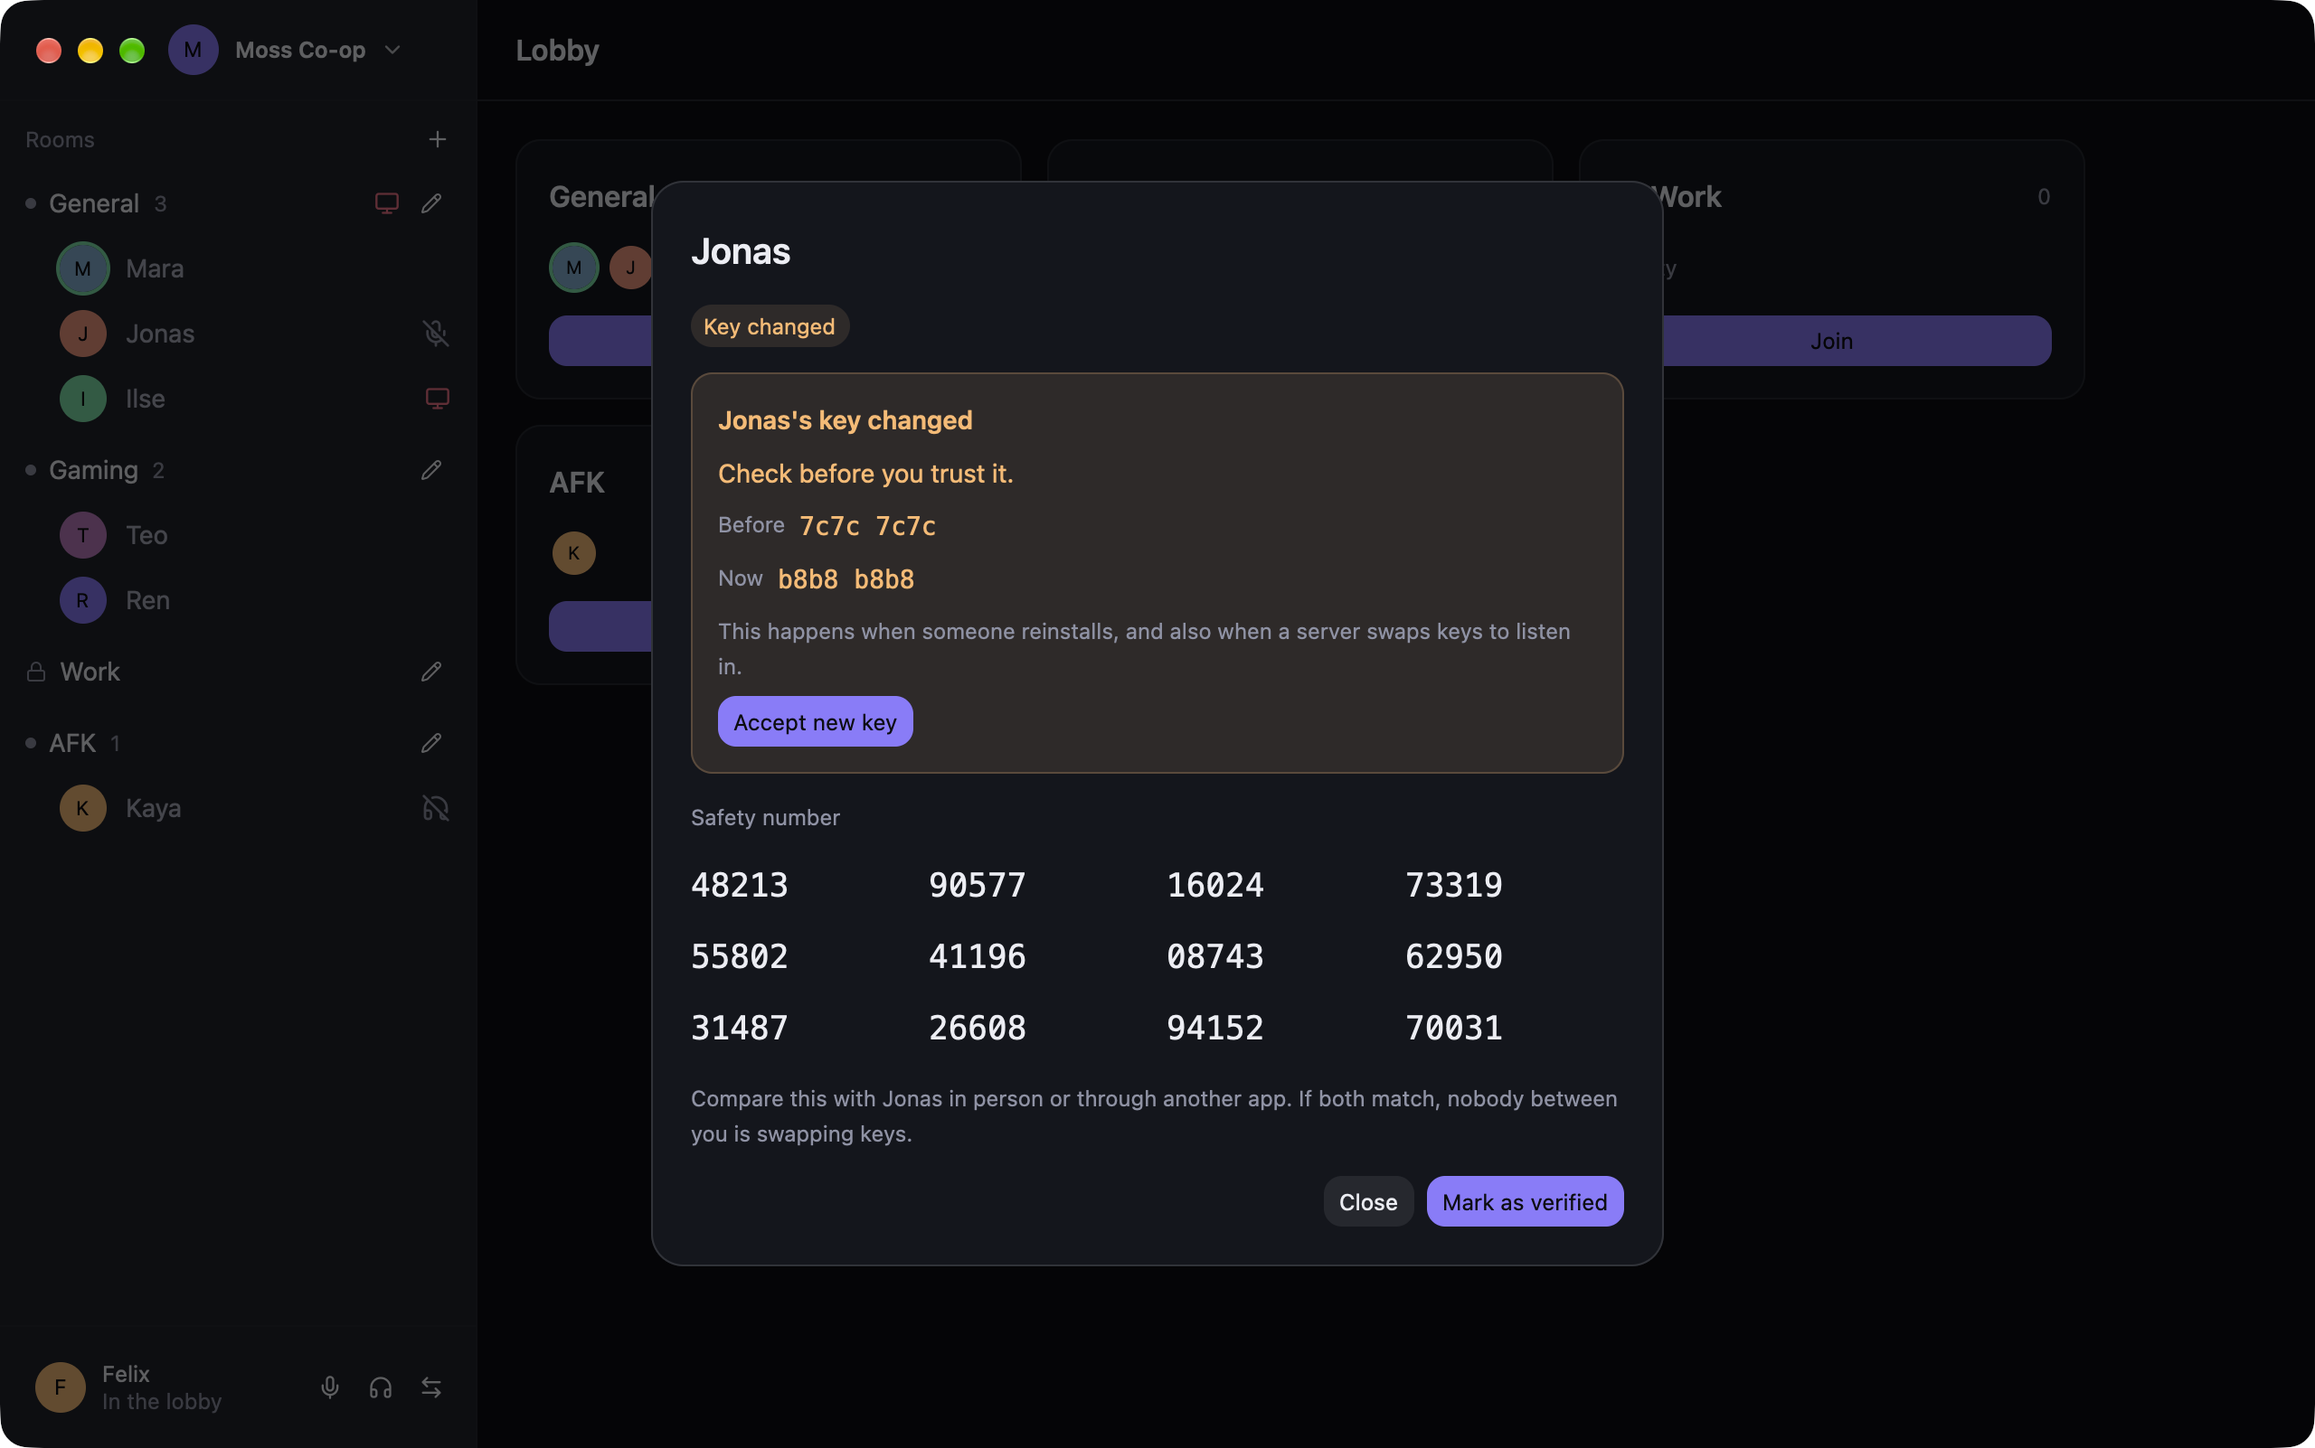
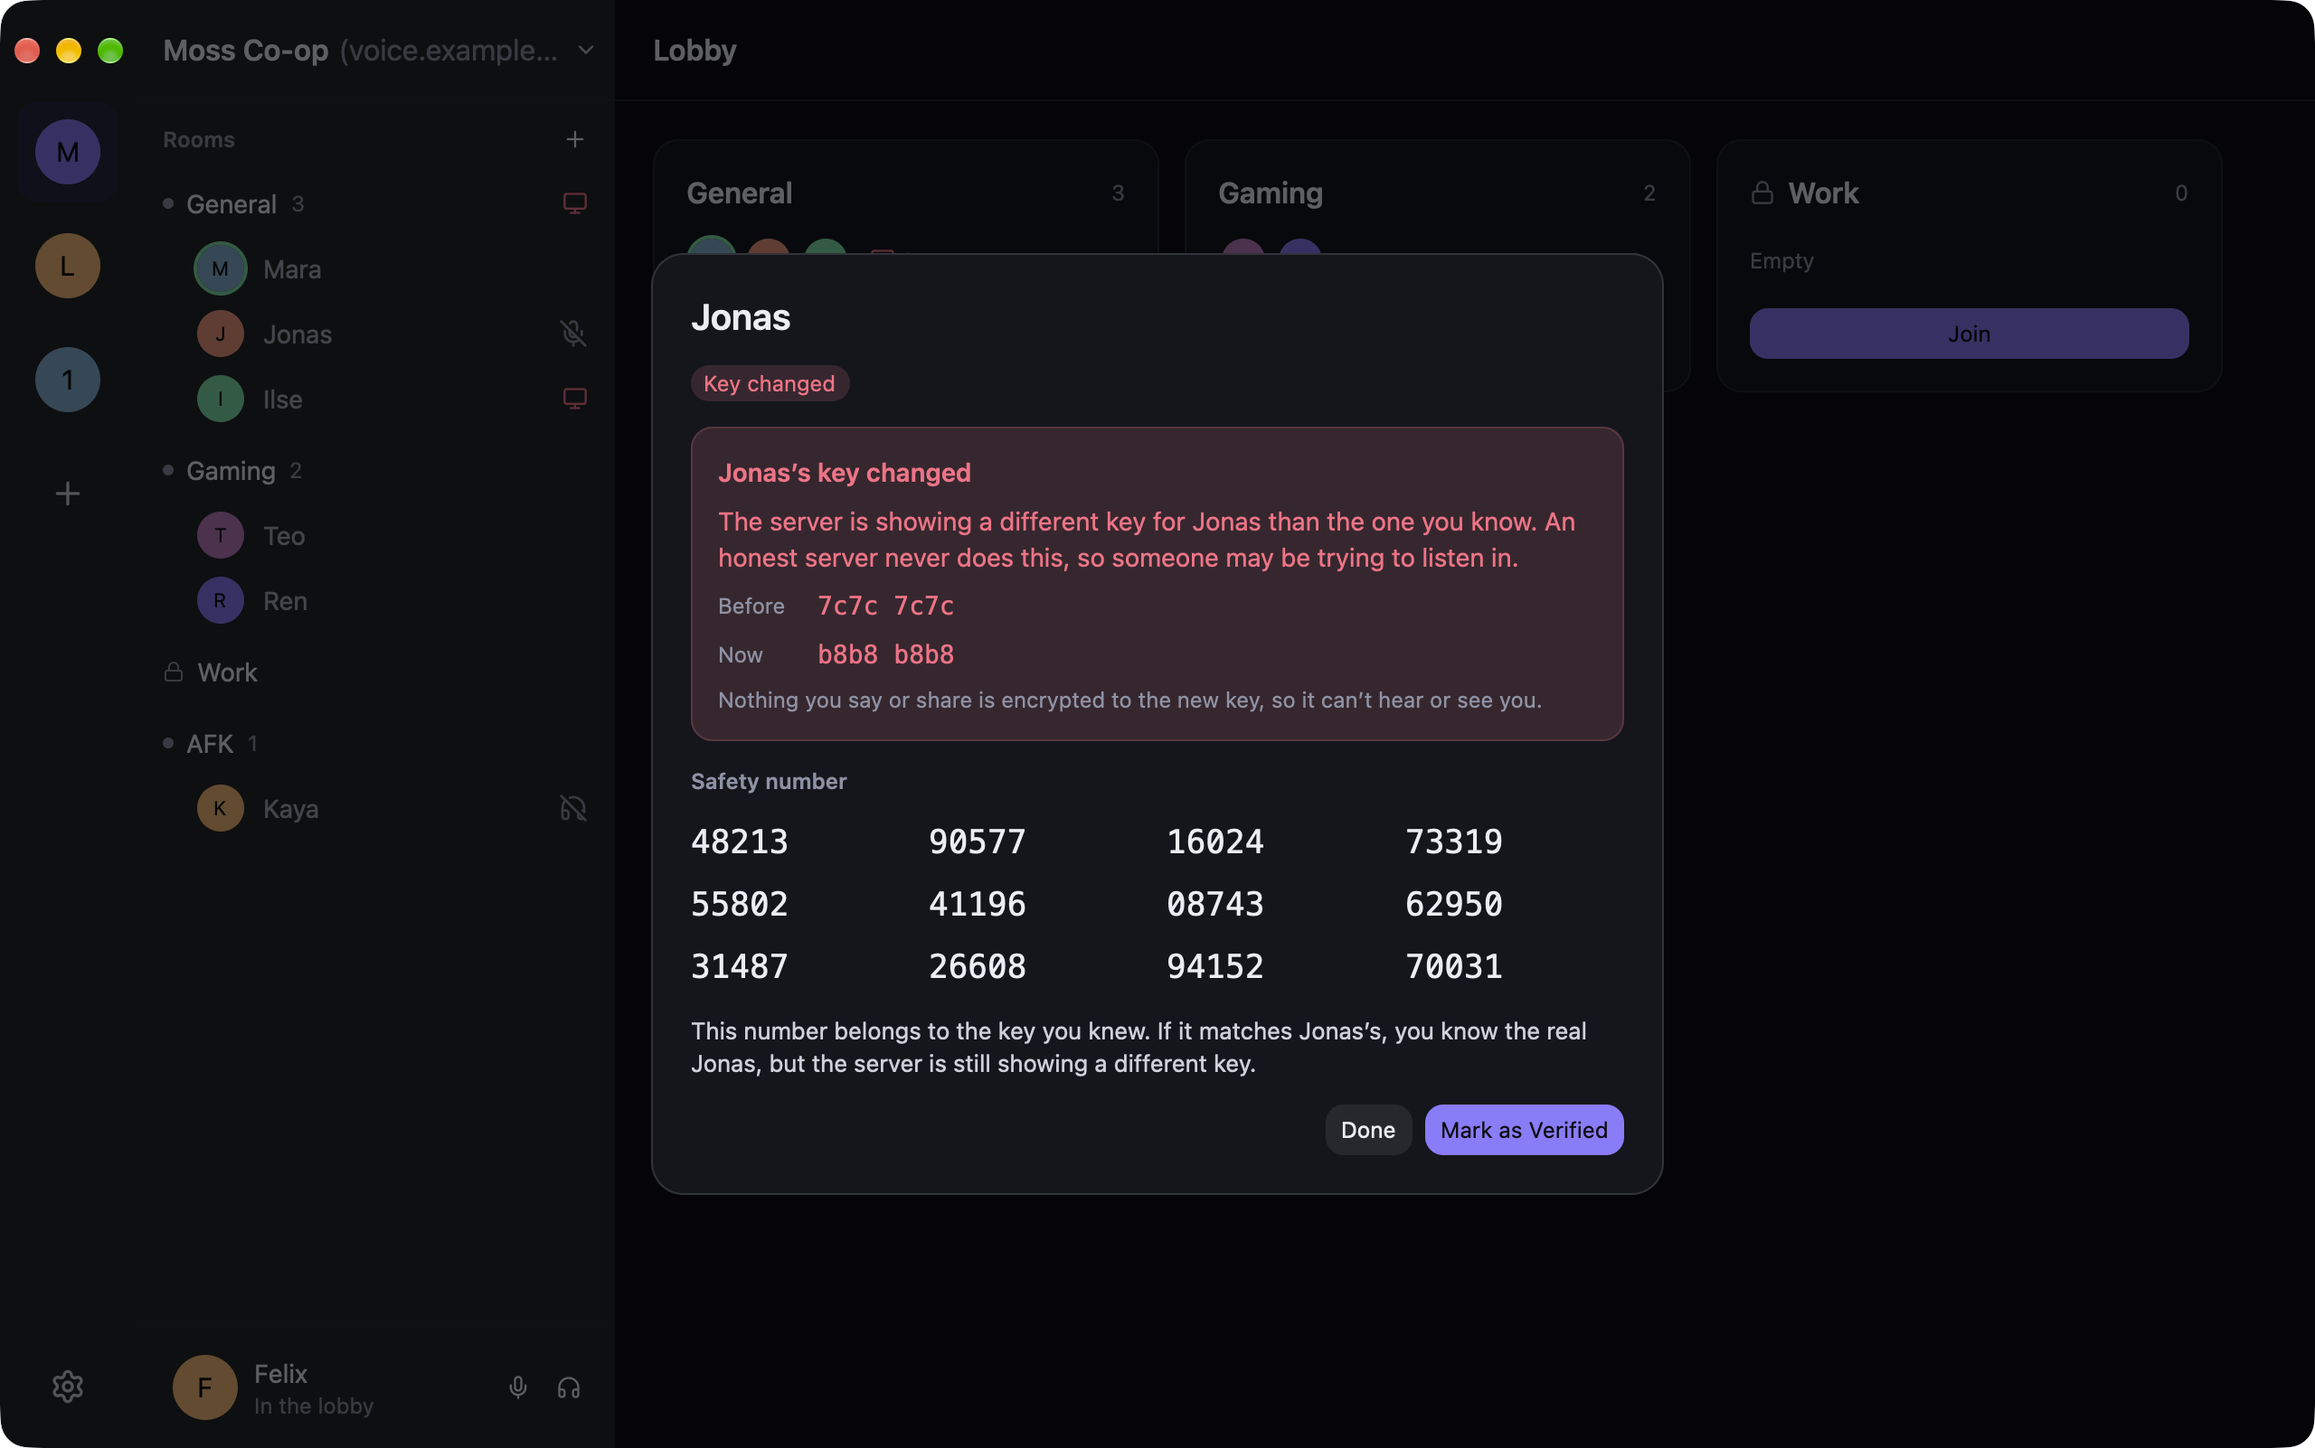
fix(client): stop accepting changed identity keys and flag them beside the name

diff --git a/crates/throcc-client/src/views/dialogs.rs b/crates/throcc-client/src/views/dialogs.rs
@@ -1,6 +1,6 @@
 use gpui::prelude::FluentBuilder;
 use gpui::{
-    AnyElement, Context, Div, FontWeight, InteractiveElement, IntoElement, MouseButton,
+    AnyElement, Context, Div, FontWeight, Hsla, InteractiveElement, IntoElement, MouseButton,
     ParentElement, StatefulInteractiveElement, Styled, div, px, relative,
 };
 use gpui_component::Disableable;
@@ -273,13 +273,25 @@ fn choices<T: Copy + PartialEq + 'static>(
 }
 
 fn warning_box() -> Div {
+    callout(theme::warn_bg(), theme::warn_border(), theme::warn_text())
+}
+
+fn danger_box() -> Div {
+    callout(
+        theme::danger_bg(),
+        theme::danger_border(),
+        theme::danger_text(),
+    )
+}
+
+fn callout(bg: Hsla, border: Hsla, text: Hsla) -> Div {
     div()
         .p_4()
         .rounded(theme::RADIUS_TILE)
-        .bg(theme::warn_bg())
+        .bg(bg)
         .border_1()
-        .border_color(theme::warn_border())
-        .text_color(theme::warn_text())
+        .border_color(border)
+        .text_color(text)
         .flex()
         .flex_col()
         .gap_2()
@@ -502,32 +514,30 @@ fn verify(app: &ThroccApp, user: UserId, cx: &mut Context<ThroccApp>) -> AnyElem
         .iter()
         .find(|w| w.user == user)
         .cloned();
+    let changed = warning.is_some();
     let number = app.safety_number(user);
     let mut content = div()
         .flex()
         .flex_col()
         .gap_4()
         .child(title(name.clone()))
-        .child(div().flex().gap_2().child(if warning.is_some() {
-            chip("Key changed", theme::warn_bg(), theme::warn_text())
+        .child(div().flex().gap_2().child(if changed {
+            chip("Key changed", theme::danger_bg(), theme::danger_text())
         } else if verified {
             chip("Verified", theme::ok_bg(), theme::ok_text())
         } else {
             chip("Not verified", theme::raised(), theme::text_2())
         }));
     if let Some(warning) = warning {
-        let shown = warning.now.0;
         content = content.child(
-            warning_box()
+            danger_box()
                 .child(div().typeset(theme::HEADLINE).child(format!("{name}’s key changed")))
-                .child("Check before you trust it.")
+                .child(format!(
+                    "The server is showing a different key for {name} than the one you know. An honest server never does this, so someone may be trying to listen in."
+                ))
                 .child(div().flex().items_center().gap_2().child(caption("Before").w(px(48.))).child(mono(warning.pinned.short())))
                 .child(div().flex().items_center().gap_2().child(caption("Now").w(px(48.))).child(mono(warning.now.short())))
-                .child(caption("This happens when someone reinstalls, and also when a server swaps keys to listen in."))
-                .child(div().flex().child(primary("accept-key", "Accept New Key").on_click(cx.listener(move |app, _, _, cx| {
-                    app.command(Command::AcceptKey(user, shown));
-                    cx.notify();
-                })))),
+                .child(caption("Nothing you say or share is encrypted to the new key, so it can’t hear or see you.")),
         );
     }
     let groups: Vec<String> = number.as_deref().map(safety_groups).unwrap_or_default();
@@ -546,9 +556,15 @@ fn verify(app: &ThroccApp, user: UserId, cx: &mut Context<ThroccApp>) -> AnyElem
                 .children(groups.into_iter().map(|g| div().child(g)))
                 .into_any_element()
         })
-        .child(description(format!(
-            "Compare this with {name} in person or through another app. If both match, nobody between you is swapping keys."
-        )))
+        .child(description(if changed {
+            format!(
+                "This number belongs to the key you knew. If it matches {name}’s, you know the real {name}, but the server is still showing a different key."
+            )
+        } else {
+            format!(
+                "Compare this with {name} in person or through another app. If both match, nobody between you is swapping keys."
+            )
+        }))
         .child(
             div()
                 .flex()

diff --git a/crates/throcc-client-core/src/session.rs b/crates/throcc-client-core/src/session.rs
@@ -8,8 +8,8 @@ use throcc_crypto::hpke::EncKeyPair;
 use throcc_proto::Fingerprint;
 use throcc_proto::ids::{Hash, MediaId, RoomId, UserId};
 use throcc_proto::messages::{
-    AuthError, Event as ServerEvent, MediaState, Placed, Presence, PublicKey, Recovery, Request,
-    Response, RoomPeer, Share, ShareConfig, Welcome,
+    AuthError, Event as ServerEvent, MediaState, Placed, Presence, Recovery, Request, Response,
+    RoomPeer, Share, ShareConfig, Welcome,
 };
 use throcc_proto::transport::close;
 use tokio::sync::{Semaphore, broadcast, mpsc, watch};
@@ -25,7 +25,7 @@ use crate::keystore::Keystore;
 use crate::lock;
 use crate::media::audio::VoiceSettings;
 use crate::media::cues::Cue;
-use crate::media::engine::{KeyState, Kind};
+use crate::media::engine::Kind;
 use crate::media::share_audio::Playout;
 use crate::media::video::{Picture, PreviewDemand};
 use crate::media::voice::{VoiceCommand, VoiceEngine};
@@ -875,7 +875,6 @@ impl Session {
                 self.simple(Request::RemoveUser { user, cascade }).await;
                 self.list_users().await;
             }
-            Command::AcceptKey(user, key) => self.accept_key(user, key).await,
             Command::SetVerified(user, verified) => {
                 if let Err(e) = self
                     .call
@@ -1261,46 +1260,6 @@ impl Session {
         }
         #[cfg(not(feature = "ffmpeg"))]
         let _ = kind;
-    }
-
-    /// Pins `key` for `user` if it is the changed key we warned about and the room state
-    /// still presents it.
-    async fn accept_key(&mut self, user: UserId, key: PublicKey) {
-        let warned = self
-            .shared
-            .state()
-            .key_warnings
-            .iter()
-            .any(|w| w.user == user && w.now.0 == key);
-        if !warned {
-            return;
-        }
-        let pinned = {
-            let mut state = self.call.engine.keys();
-            let KeyState { keys, contacts } = &mut *state;
-            keys.presents(user, &key).then(|| contacts.pin(user, key))
-        };
-        match pinned {
-            None => {
-                self.shared.notice(format!(
-                    "{} isn't presenting that key right now, so it wasn't accepted.",
-                    self.name_of(user)
-                ));
-                return;
-            }
-            Some(Err(e)) => {
-                warn!("saving the new key: {e:#}");
-                self.shared
-                    .notice(format!("Couldn't keep the new key: {e}"));
-            }
-            Some(Ok(())) => {}
-        }
-        self.shared
-            .update(|s| s.key_warnings.retain(|w| w.user != user));
-        let notices = self.call.refresh_keys();
-        self.notices(notices);
-        self.refresh_verified();
-        self.follow_room().await;
     }
 
     /// Replaces our encryption key once it nears expiry, and gives the server the new one.

diff --git a/crates/throcc-client/src/views/main.rs b/crates/throcc-client/src/views/main.rs
@@ -8,6 +8,7 @@ use gpui::{
 };
 use gpui_component::button::{Button, ButtonVariant, ButtonVariants};
 use gpui_component::menu::{ContextMenuExt, DropdownMenu, PopupMenuItem};
+use gpui_component::tooltip::Tooltip;
 use gpui_component::{Icon, Sizable, Size};
 use throcc_client_core::client::Command;
 use throcc_client_core::state::{Person, State, share_label};
@@ -147,11 +148,10 @@ fn sidebar(app: &mut ThroccApp, cx: &mut Context<ThroccApp>) -> impl IntoElement
             .flex()
             .flex_col()
             .child(with_room_menu(row, id, manages, cx))
-            .children(
-                people
-                    .into_iter()
-                    .map(|(user, person)| occupant(user, &person, pictures.get(&user).cloned())),
-            )
+            .children(people.into_iter().map(|(user, person)| {
+                let changed = state.key_warnings.iter().any(|w| w.user == user);
+                occupant(user, &person, pictures.get(&user).cloned(), changed, cx)
+            }))
     });
 
     let me = state.me;
@@ -408,6 +408,8 @@ fn occupant(
     user: UserId,
     person: &Person,
     picture: Option<std::sync::Arc<gpui::RenderImage>>,
+    key_changed: bool,
+    cx: &Context<ThroccApp>,
 ) -> Div {
     div()
         .flex()
@@ -425,13 +427,34 @@ fn occupant(
         ))
         .child(
             div()
-                .flex_1()
+                .min_w_0()
                 .truncate()
                 .text_color(theme::text_2_muted())
                 .child(person.name.clone()),
         )
+        .children(key_changed.then(|| key_changed_marker(user, cx)))
+        .child(div().flex_1())
         .children(person.sharing.is_some().then(sharing_icon))
         .children(muted_icon(person, px(16.)))
+}
+
+/// The danger sign beside the name of someone whose identity key changed, opening their key dialog.
+fn key_changed_marker(user: UserId, cx: &Context<ThroccApp>) -> Stateful<Div> {
+    div()
+        .id(("key-changed", user.0 as usize))
+        .flex()
+        .flex_none()
+        .cursor_pointer()
+        .child(
+            icon("triangle-alert")
+                .size(px(16.))
+                .text_color(theme::danger_text()),
+        )
+        .tooltip(|window, cx| Tooltip::new("Key changed").build(window, cx))
+        .on_click(cx.listener(move |app, _, _, cx| {
+            app.dialog = Some(Dialog::Verify(user));
+            cx.notify();
+        }))
 }
 
 /// The headphones-off icon while `person` is deafened, which mutes too, or else the

diff --git a/crates/throcc-client/src/app.rs b/crates/throcc-client/src/app.rs
@@ -1309,10 +1309,10 @@ impl ThroccApp {
         }
     }
 
-    /// Opens a screen of the mock client by name, for screenshots: welcome, join, joinfailed, lost,
-    /// lobby, emptylobby, room, focus,
-    /// fullscreen, popout, share, settings, sounds, appearance, profile, connection, verify,
-    /// members, keychange, addserver, removeserver or personmenu.
+    /// Opens a screen of the mock client by name, for screenshots: welcome, join, joinfailed,
+    /// lost, lobby, emptylobby, room, alone, focus, fullscreen, popout, share, settings, sounds,
+    /// appearance, profile, connection, verify, members, keychange, pinmismatch, addserver,
+    /// removeserver or personmenu.
     pub fn show_sample(&mut self, screen: &str, window: &mut Window, cx: &mut Context<Self>) {
         let room = RoomId(1);
         let joined = |app: &mut Self| {
@@ -1418,6 +1418,15 @@ impl ThroccApp {
             }
             "verify" => self.dialog = Some(Dialog::Verify(UserId(2))),
             "keychange" => self.dialog = Some(Dialog::Verify(UserId(3))),
+            "pinmismatch" => {
+                self.client = None;
+                self.screen = Screen::Join;
+                self.dialog = Some(Dialog::PinMismatch {
+                    address: "voice.example.net".into(),
+                    expected: Fingerprint([0x2c; 32]),
+                    actual: Fingerprint([0xb8; 32]),
+                });
+            }
             "settings" => self.screen = Screen::Settings(SettingsPage::Audio),
             "appearance" => self.screen = Screen::Settings(SettingsPage::Appearance),
             "newroom" => self.dialog = Some(Dialog::NewRoom),

diff --git a/crates/throcc-client-core/src/client.rs b/crates/throcc-client-core/src/client.rs
@@ -75,8 +75,6 @@ pub enum Command {
         user: UserId,
         cascade: bool,
     },
-    /// Trusts `user`'s changed identity key, if it is the one we warned about.
-    AcceptKey(UserId, PublicKey),
     SetVerified(UserId, bool),
     Voice(VoiceSettings),
     Devices {
@@ -443,10 +441,6 @@ impl ClientApi for MockClient {
             Command::ListUsers | Command::SetRole(..) | Command::RemoveUser { .. } => {
                 self.events.send(Event::Users(sample_users())).ok();
             }
-            Command::AcceptKey(user, key) => self.update(|s| {
-                s.key_warnings
-                    .retain(|w| !(w.user == user && w.now.0 == key))
-            }),
             Command::SetVerified(user, verified) => self.update(|s| {
                 if let Some(p) = s.people.get_mut(&user) {
                     p.verified = verified;

diff --git a/crates/throcc-client-core/src/keys.rs b/crates/throcc-client-core/src/keys.rs
@@ -21,7 +21,7 @@ const MAX_EARLY: usize = 64;
 
 #[derive(Clone, Debug, PartialEq, Eq)]
 pub enum KeyNotice {
-    /// A user's identity key differs from the pinned one. They are left out until accepted.
+    /// A user's identity key differs from the pinned one. They are left out until it matches again.
     KeyChanged {
         user: UserId,
         pinned: PublicKey,

diff --git a/crates/throcc-client-core/src/call.rs b/crates/throcc-client-core/src/call.rs
@@ -118,11 +118,6 @@ impl Call {
         self.connected.fingerprint
     }
 
-    /// Applies the current room state again, after a pin changed.
-    pub fn refresh_keys(&self) -> Vec<KeyNotice> {
-        self.engine.refresh_keys()
-    }
-
     pub async fn request(&self, request: Request) -> Result<Response> {
         Ok(self.requester.request(request).await?)
     }

diff --git a/crates/throcc-client-core/src/media/engine.rs b/crates/throcc-client-core/src/media/engine.rs
@@ -227,7 +227,7 @@ impl MediaEngine {
         }
     }
 
-    /// Applies the current room state again, after a pin or presence changed.
+    /// Applies the current room state again, after presence changed.
     pub fn refresh_keys(&self) -> Vec<KeyNotice> {
         let mut state = self.keys();
         let KeyState { keys, contacts } = &mut *state;

diff --git a/crates/throcc-client/src/theme.rs b/crates/throcc-client/src/theme.rs
@@ -355,6 +355,10 @@ pub fn danger_bg() -> Hsla {
     let p = palette();
     mixed(p.bad, 0.18, p.panel)
 }
+pub fn danger_border() -> Hsla {
+    let p = palette();
+    mixed(p.bad, 0.35, p.panel)
+}
 pub fn danger_text() -> Hsla {
     hex(palette().bad)
 }
